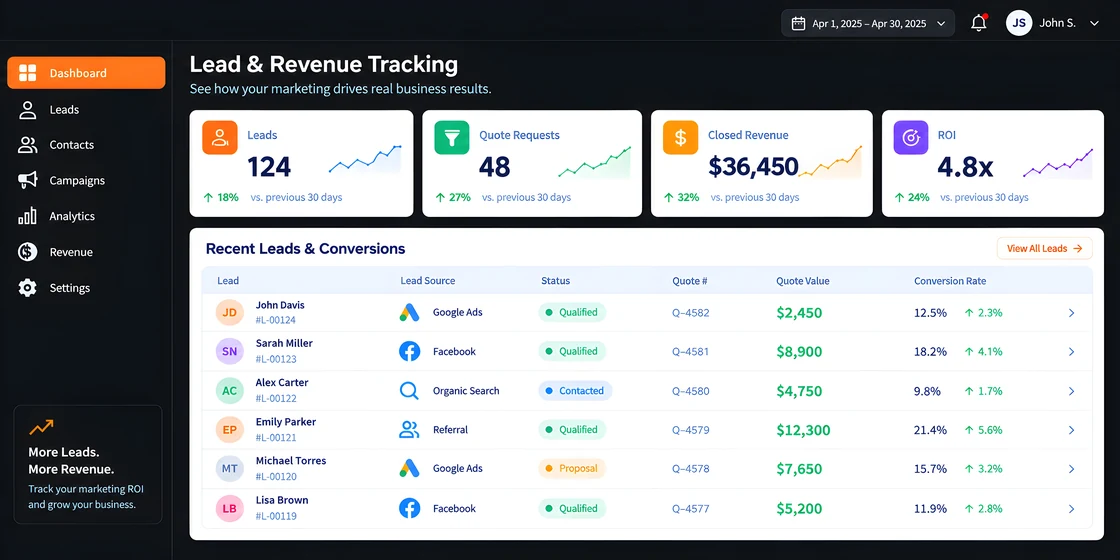
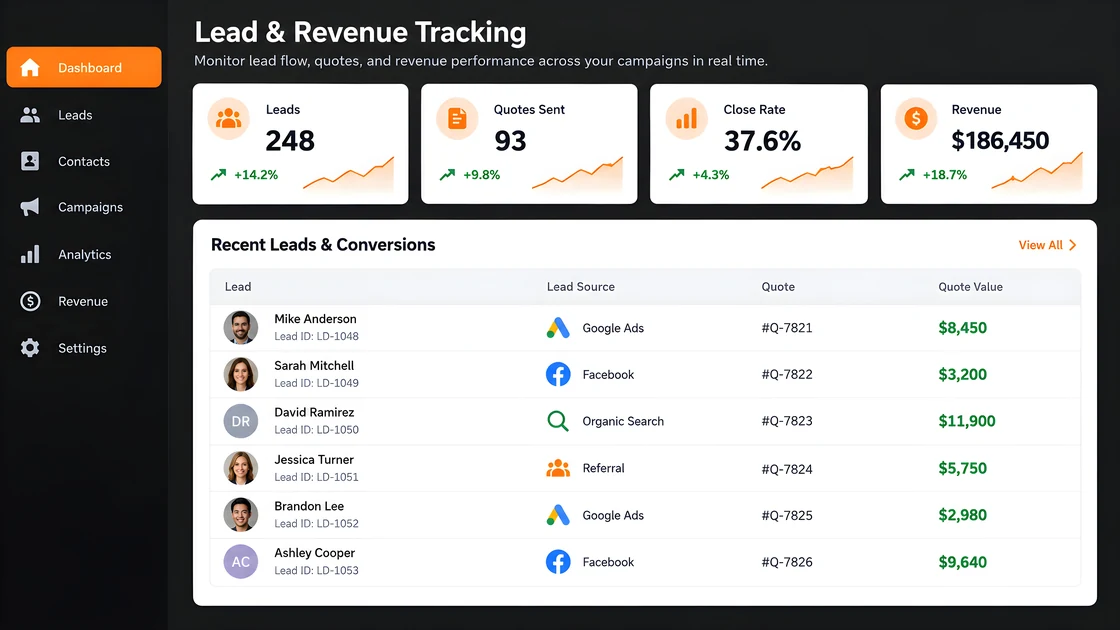
Swap the hero to the redrawn 16:9 dashboard
Third render, and a redesign rather than a retouch: different figures (248
leads, 93 quotes sent, a 37.6% close rate, $186,450 revenue), different lead
rows, and orange accents that sit with the brand instead of the blues and
greens the earlier ones used. The sidebar note that carried the "grow your
your business" slip is gone with it.

It is 1672x941, so 16:9 where the last was 2:1 and slightly narrower in raw
pixels, not higher resolution as such. The dashboard inside is drawn larger,
which is where the gain actually comes from. Same pipeline: AI upscale to
6688x3764, Lanczos down to the two srcset widths, text checked afterwards and
clean.

The box ratio moved with it, 2/1 to 16/9, and the height attribute to match.
Left at 2/1 the new file would have been cover-cropped, which on a UI
screenshot cuts the figures it exists to show. Measured 1056x594 on desktop
and 335x188 on a phone, both 1.778 against the image's own 1.778, so nothing
is trimmed. The hero is taller as a result.

Alt text rewritten: it still described the first render's 124 leads and 4.8x
ROI, numbers that are no longer on screen.

The square render in the Transparency section is still the old design, so the
two dashboards on the homepage no longer match each other.

diff --git a/index.html b/index.html
@@ -247,7 +247,7 @@ html[data-theme="dark"] .theme-toggle .t-dark{display:inline-block}
    show, and at phone widths the old fixed height would have kept barely half of
    it. The previous height clamp and 30%/62% focal point were tuned for the
    Sedona photograph this replaced. */
-.hero-img{width:100%;aspect-ratio:2/1;height:auto;object-fit:cover;
+.hero-img{width:100%;aspect-ratio:16/9;height:auto;object-fit:cover;
   border-radius:var(--radius);display:block;margin-top:8px}
 
 /* =============================================================
@@ -967,8 +967,8 @@ try{if(localStorage.getItem('owd-theme-v2')==='light')
        srcset="/img/lead-revenue-dashboard-1120.webp 1120w,
                /img/lead-revenue-dashboard-2240.webp 2240w"
        sizes="(max-width:600px) calc(100vw - 40px), (max-width:1120px) calc(100vw - 64px), 1056px"
-       width="2240" height="1120" fetchpriority="high" decoding="async"
-       alt="A lead and revenue dashboard: 124 leads, 48 quote requests, $36,450 closed revenue and 4.8x ROI over 30 days, above a table of recent leads showing each one's source, status and quote value">
+       width="2240" height="1260" fetchpriority="high" decoding="async"
+       alt="A lead and revenue dashboard: 248 leads, 93 quotes sent, a 37.6% close rate and $186,450 in revenue, each rising on the month, above a table of recent leads showing every one's source, quote number and value">
 </section>
 </div>
 
